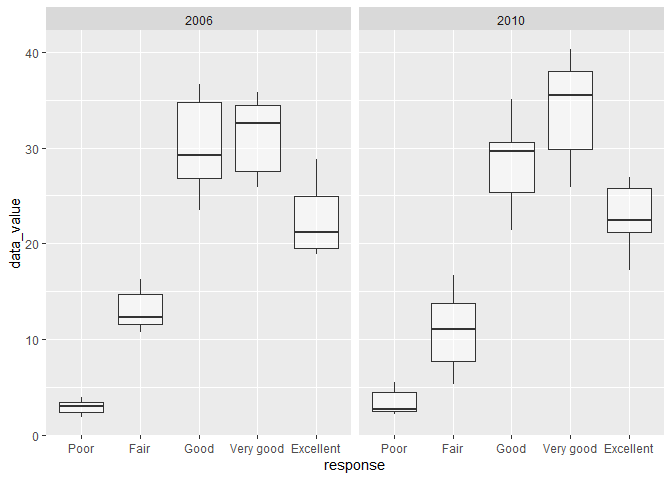
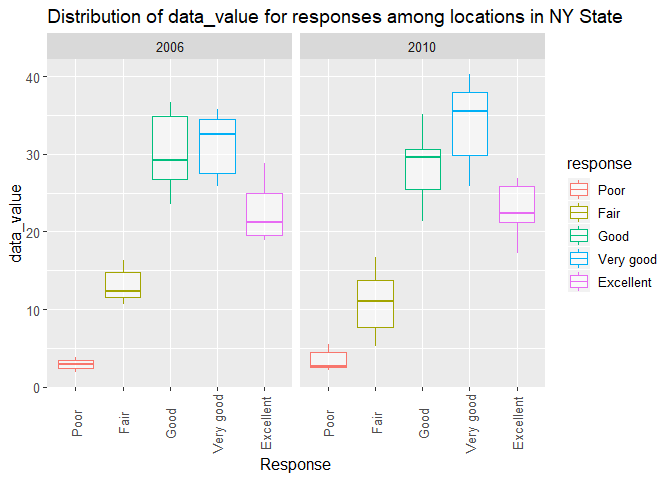
complete version 1!!

diff --git a/p8105_hw3_xl2851.md b/p8105_hw3_xl2851.md
@@ -11,14 +11,14 @@ library(tidyr)
 library(tidyverse)
 ```
 
-    ## -- Attaching packages ------------------------------------------ tidyverse 1.2.1 --
+    ## -- Attaching packages -------------------
 
     ## v ggplot2 3.2.1     v purrr   0.3.2
     ## v tibble  2.1.3     v dplyr   0.8.3
     ## v readr   1.3.1     v stringr 1.4.0
     ## v ggplot2 3.2.1     v forcats 0.4.0
 
-    ## -- Conflicts --------------------------------------------- tidyverse_conflicts() --
+    ## -- Conflicts --- tidyverse_conflicts() --
     ## x dplyr::filter() masks stats::filter()
     ## x dplyr::lag()    masks stats::lag()
 
@@ -43,7 +43,12 @@ from.
 plot_aisle =
   aisle_count %>%
   filter(number_of_items>10000)%>%
-  ggplot(aes(x=number_of_items, y=aisle))
+  ggplot(aes(x=number_of_items, y=aisle))+
+   labs(
+    title = "Aisles plot",
+    x = "names of aisles",
+    y = "number of items ordered in each aisle",
+    caption = "Data from instacart")
 
 plot_aisle+geom_point()
 ```
@@ -85,25 +90,27 @@ plot_aisle+geom_point()
   summarize(
     mean=mean(order_hour_of_day)
   )%>%
-  knitr::kable()
+  knitr::kable(digits=1)
 ```
 
     ## Warning in product_name == c("Pink Lady Apples", "Coffee Ice Cream"):
     ## longer object length is not a multiple of shorter object length
 
-| order\_dow |     mean |
-| ---------: | -------: |
-|          0 | 12.76471 |
-|          1 | 12.67500 |
-|          2 | 12.88235 |
-|          3 | 14.50000 |
-|          4 | 13.60870 |
-|          5 | 12.87500 |
-|          6 | 12.07692 |
+| order\_dow | mean |
+| ---------: | ---: |
+|          0 | 12.8 |
+|          1 | 12.7 |
+|          2 | 12.9 |
+|          3 | 14.5 |
+|          4 | 13.6 |
+|          5 | 12.9 |
+|          6 | 12.1 |
+
+According to the table, the lastest mean onder hour(14.5) is on
+Wednesday.
 
 There are 1384617 rows and 15 columns in data ‘instacart’. There are 134
-distinct aisles. Some key variables include 131209 distinct order\_id
-and 131209 distinct user\_id.
+distinct aisles. Some key variables include (add later)
 
 # problem 2
 
@@ -114,6 +121,7 @@ data("brfss_smart2010")
 tidied_brfss=
   filter(brfss_smart2010,Topic=="Overall Health")%>%
   janitor::clean_names() %>%
+  rename(state = "locationabbr", location = "locationdesc")%>%
   mutate(
     response=as.factor(response),
     response = forcats::fct_relevel(response, c("Poor","Fair","Good", "Very good","Excellent")))
@@ -122,18 +130,16 @@ tidied_brfss=
 ## In 2002, which states were observed at 7 or more locations? What about in 2010?
 
 ``` r
-  separate(tidied_brfss,locationdesc,c("state","county"))%>%
+  tidied_brfss%>%
   group_by(state,year)%>%
-  summarise(n_location=n_distinct(county))%>%
+  summarise(n_location=n_distinct(location, na.rm = FALSE))%>%
   filter(n_location>=7, year==2002)%>%
   knitr::kable()
 ```
 
-    ## Warning: Expected 2 pieces. Additional pieces discarded in 10625 rows [1,
-    ## 2, 3, 4, 5, 6, 7, 8, 9, 10, 11, 12, 13, 14, 15, 16, 17, 18, 19, 20, ...].
-
 | state | year | n\_location |
 | :---- | ---: | ----------: |
+| CT    | 2002 |           7 |
 | FL    | 2002 |           7 |
 | MA    | 2002 |           8 |
 | NC    | 2002 |           7 |
@@ -141,23 +147,20 @@ tidied_brfss=
 | PA    | 2002 |          10 |
 
 ``` r
-  separate(tidied_brfss,locationdesc,c("state","county"))%>%
+  tidied_brfss%>%
   group_by(state,year)%>%
-  summarise(n_location=n_distinct(county))%>%
+  summarise(n_location=n_distinct(location, na.rm = FALSE))%>%
   filter(n_location>=7, year==2010)%>%
   knitr::kable()
 ```
 
-    ## Warning: Expected 2 pieces. Additional pieces discarded in 10625 rows [1,
-    ## 2, 3, 4, 5, 6, 7, 8, 9, 10, 11, 12, 13, 14, 15, 16, 17, 18, 19, 20, ...].
-
 | state | year | n\_location |
 | :---- | ---: | ----------: |
-| CA    | 2010 |           9 |
+| CA    | 2010 |          12 |
 | CO    | 2010 |           7 |
-| FL    | 2010 |          40 |
+| FL    | 2010 |          41 |
 | MA    | 2010 |           9 |
-| MD    | 2010 |          11 |
+| MD    | 2010 |          12 |
 | NC    | 2010 |          12 |
 | NE    | 2010 |          10 |
 | NJ    | 2010 |          19 |
@@ -168,53 +171,79 @@ tidied_brfss=
 | TX    | 2010 |          16 |
 | WA    | 2010 |          10 |
 
+According to the table, in 2002, CT, FL, MA, NC, NJ and PA were observed
+at 7 or more locations. In 2010, CA, CO, FL, MA, MD, NC, NE, NJ, NY, OH,
+PA, SC, TX and WA were observed at 7 or more
+locations.
+
 ## Construct a dataset that is limited to Excellent responses, and contains, year, state, and a variable that averages the data\_value across locations within a state.
 
 ``` r
 brfss_new =
   tidied_brfss %>% 
   filter(response == "Excellent") %>% 
-  group_by(year, locationabbr) %>% 
+  group_by(year, location) %>% 
   mutate(mean = mean(data_value, na.rm = FALSE)) %>%
-  select(year, locationabbr, mean) %>% 
+  select(year, location, mean) %>% 
   distinct() 
 ```
 
 ## Make a “spaghetti” plot
 
 ``` r
-ggplot(brfss_new, aes(x = year, y = mean, color = locationabbr, group = locationabbr))+
+ggplot(brfss_new, aes(x = year, y = mean, color = location, group = location))+
   geom_line() +
   theme(legend.position="none") +
   xlab("Year") +
-  ylab("The average value within a state") +
+  ylab("Mean value") +
   ggtitle("The average value over time within a state")
 ```
 
-    ## Warning: Removed 3 rows containing missing values (geom_path).
+    ## Warning: Removed 5 rows containing missing values (geom_path).
 
 ![](p8105_hw3_xl2851_files/figure-gfm/unnamed-chunk-9-1.png)<!-- -->
+
+The plots shows the average data\_value across location within a state
+with “year” as the x-axis and “mean value” as the y-axis.
 
 ## two-panel plot
 
 ``` r
   tidied_brfss %>%
-  filter(locationabbr=="NY",year %in% c(2006, 2010))%>%
-  ggplot(aes(x = response, y = data_value )) +
+  filter(state=="NY",year %in% c(2006, 2010))%>%
+  ggplot(aes(x = response, y = data_value, color=response)) +
   geom_boxplot(alpha = .5)+
   facet_grid(~year)+
-  viridis::scale_fill_viridis(discrete = TRUE)
+  theme(text = element_text(size=12),
+         axis.text.x = element_text(angle=90, vjust=0.5)) +
+  labs(
+    title = "Distribution of data_value for responses among locations in NY State",
+    x = "Response",
+    y = "data_value")
 ```
 
 ![](p8105_hw3_xl2851_files/figure-gfm/unnamed-chunk-10-1.png)<!-- -->
+
+The two-panel plot shows for the years 2006, and 2010, distribution of
+data\_value for responses (“Poor” to “Excellent”) among locations in NY
+State. Within these 2 years, the distribution of response is similar but
+in 2010 there were more “very good” responses.
 
 # problem 3
 
 ``` r
 accel_data=read_csv("./accel_data.csv")%>%
+   janitor::clean_names() %>%
+  mutate(
+    type = case_when(
+      day %in% c("Saturday", "Sunday") ~ "weekend",
+      day %in% c("Monday", "Tuesday", "Wednesday", "Thursday", "Friday") ~ "weekday", TRUE~""),
+    day = as.factor(day),
+    day = forcats::fct_relevel(day, c("Sunday","Monday","Tuesday","Wednesday","Thursday", "Friday", "Saturday"))) %>% 
   pivot_longer(
-    activity.1:activity.1440,
+    activity_1:activity_1440,
     names_to = "activity",
+    names_prefix = "activity_",
     values_to = "count"
   )
 ```
@@ -226,3 +255,77 @@ accel_data=read_csv("./accel_data.csv")%>%
     ## )
 
     ## See spec(...) for full column specifications.
+
+The dataset, “accel\_data”, has 50400 observations and 6 variables. Key
+variables are week, type, day activity and
+count.
+
+## aggregate accross minutes to create a total activity variable for each day
+
+``` r
+accel_data %>% 
+  group_by(week,day, day_id) %>%
+  summarize(activity_total = sum(count)) %>% 
+  knitr::kable()
+```
+
+| week | day       | day\_id | activity\_total |
+| ---: | :-------- | ------: | --------------: |
+|    1 | Sunday    |       4 |       631105.00 |
+|    1 | Monday    |       2 |        78828.07 |
+|    1 | Tuesday   |       6 |       307094.24 |
+|    1 | Wednesday |       7 |       340115.01 |
+|    1 | Thursday  |       5 |       355923.64 |
+|    1 | Friday    |       1 |       480542.62 |
+|    1 | Saturday  |       3 |       376254.00 |
+|    2 | Sunday    |      11 |       422018.00 |
+|    2 | Monday    |       9 |       295431.00 |
+|    2 | Tuesday   |      13 |       423245.00 |
+|    2 | Wednesday |      14 |       440962.00 |
+|    2 | Thursday  |      12 |       474048.00 |
+|    2 | Friday    |       8 |       568839.00 |
+|    2 | Saturday  |      10 |       607175.00 |
+|    3 | Sunday    |      18 |       467052.00 |
+|    3 | Monday    |      16 |       685910.00 |
+|    3 | Tuesday   |      20 |       381507.00 |
+|    3 | Wednesday |      21 |       468869.00 |
+|    3 | Thursday  |      19 |       371230.00 |
+|    3 | Friday    |      15 |       467420.00 |
+|    3 | Saturday  |      17 |       382928.00 |
+|    4 | Sunday    |      25 |       260617.00 |
+|    4 | Monday    |      23 |       409450.00 |
+|    4 | Tuesday   |      27 |       319568.00 |
+|    4 | Wednesday |      28 |       434460.00 |
+|    4 | Thursday  |      26 |       340291.00 |
+|    4 | Friday    |      22 |       154049.00 |
+|    4 | Saturday  |      24 |         1440.00 |
+|    5 | Sunday    |      32 |       138421.00 |
+|    5 | Monday    |      30 |       389080.00 |
+|    5 | Tuesday   |      34 |       367824.00 |
+|    5 | Wednesday |      35 |       445366.00 |
+|    5 | Thursday  |      33 |       549658.00 |
+|    5 | Friday    |      29 |       620860.00 |
+|    5 | Saturday  |      31 |         1440.00 |
+
+I did not see any apparent
+trends.
+
+## Make a single-panel plot that shows the 24-hour activity time courses for each day
+
+``` r
+  accel_data %>% 
+  group_by(week,day, day_id) %>%
+  summarize(activity_total = sum(count))%>%
+  rowid_to_column("ID")%>%
+    ggplot(aes(x = ID, y = activity_total)) +
+    geom_point(aes(color = day), alpha = .5) +
+    geom_smooth(se = FALSE)+
+labs(
+    title = "24-hour activity time courses for each day",
+    x = "ID",
+    y = "activity_total")
+```
+
+    ## `geom_smooth()` using method = 'loess' and formula 'y ~ x'
+
+![](p8105_hw3_xl2851_files/figure-gfm/unnamed-chunk-13-1.png)<!-- -->
